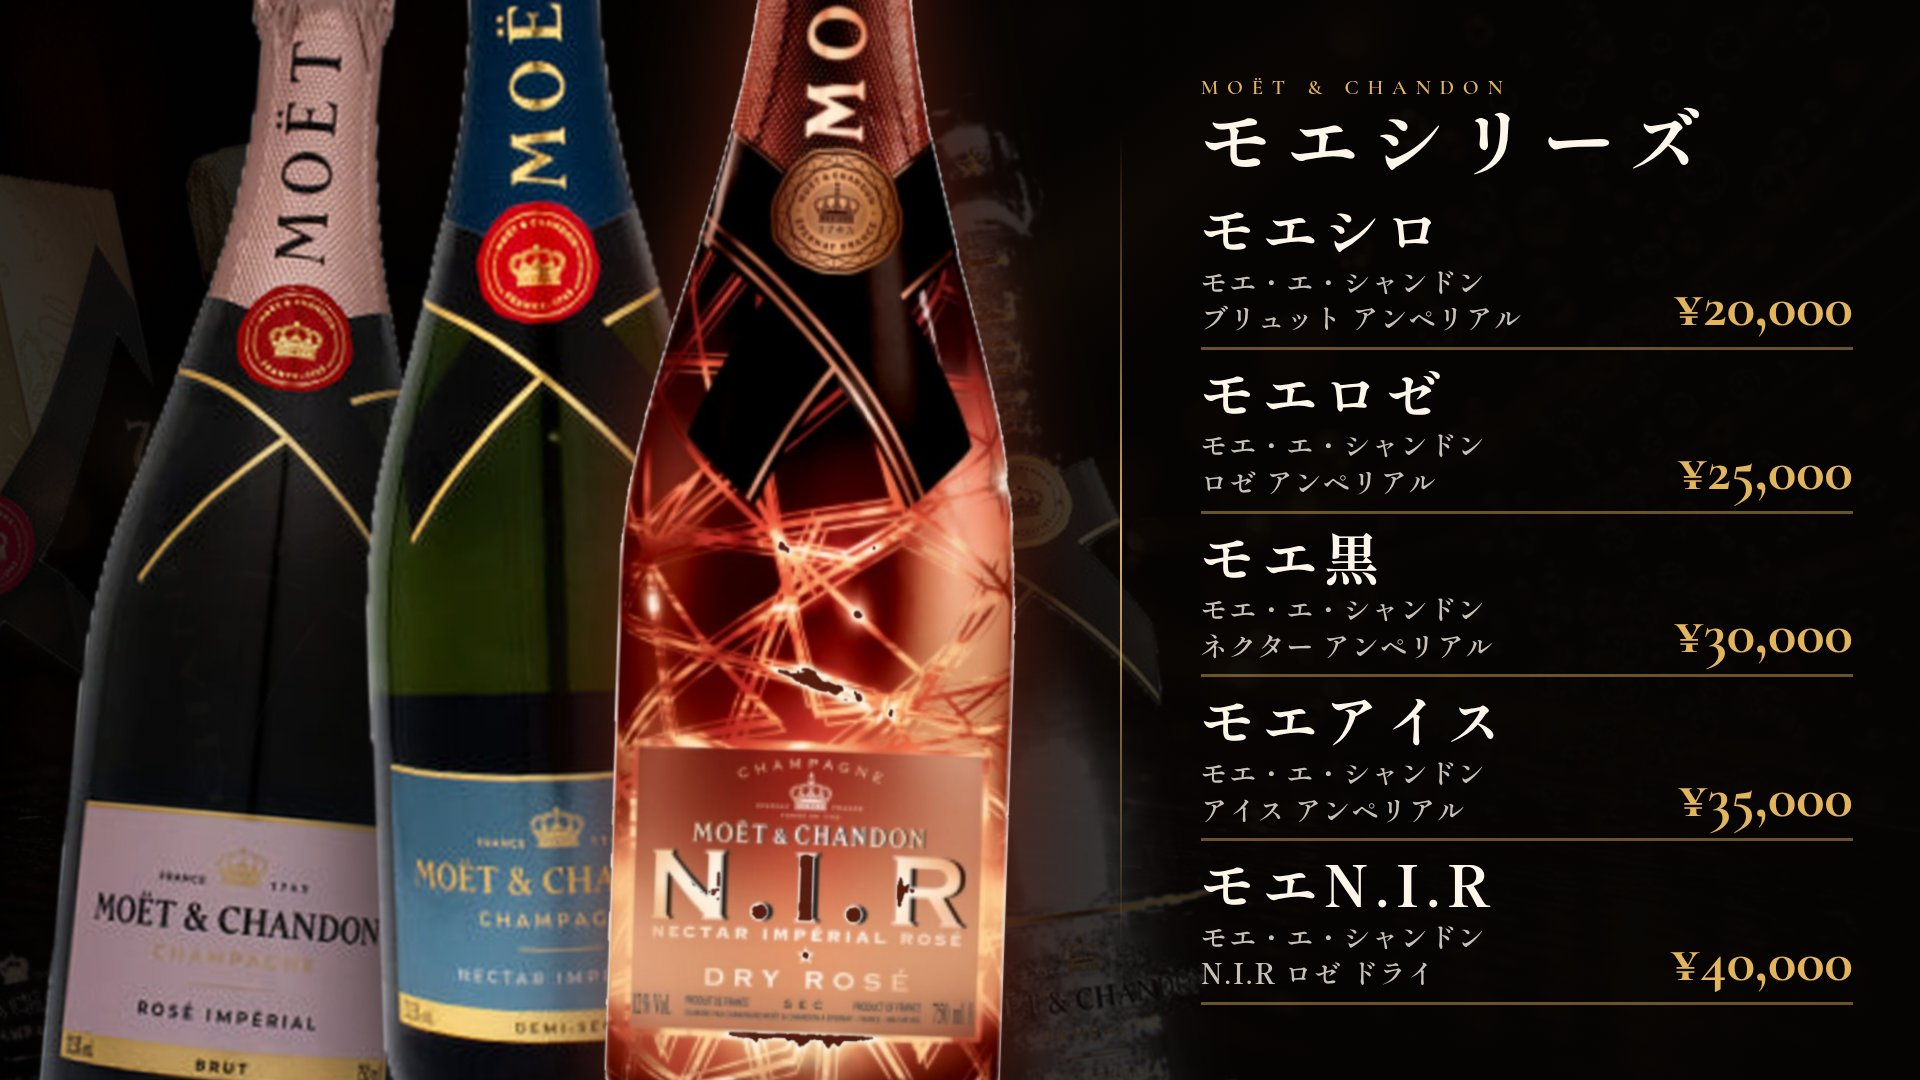
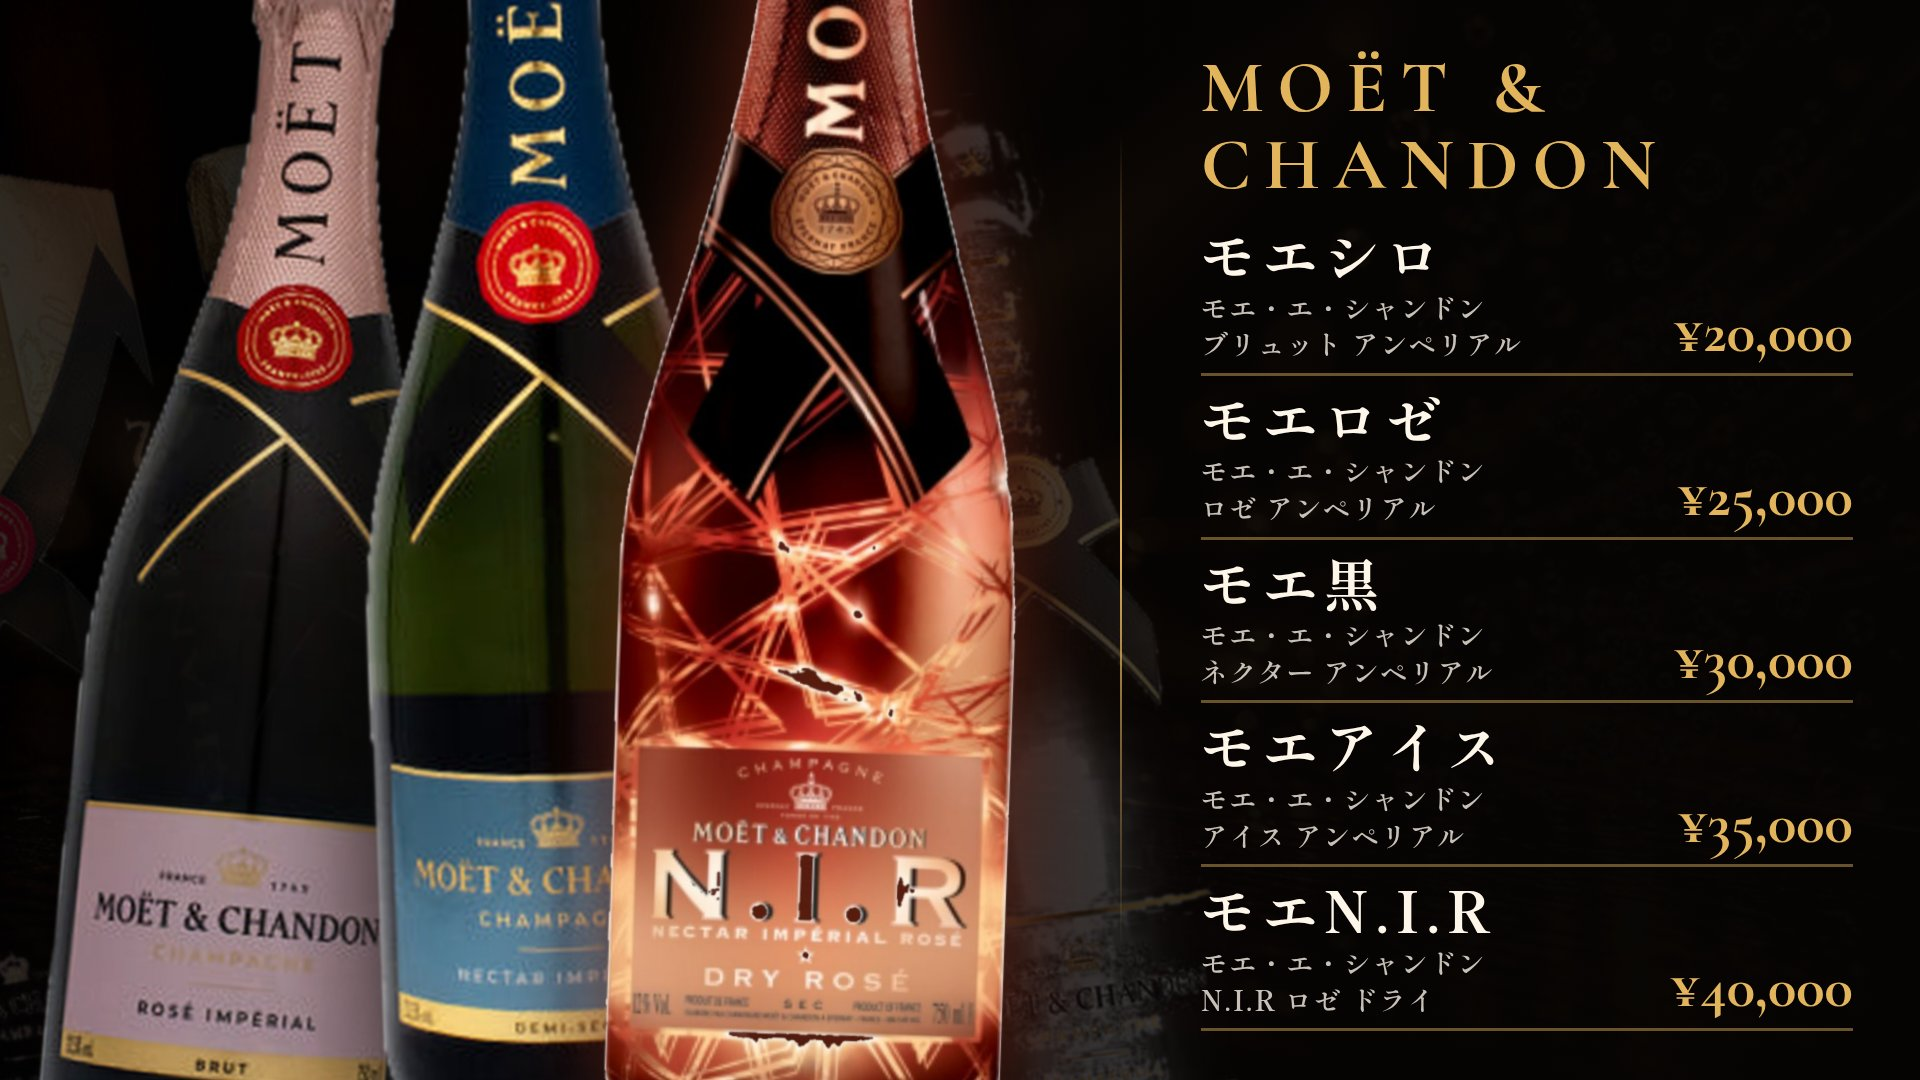
Replace モエシリーズ title with MOËT & CHANDON on Design 19
Drop the duplicate maison line and use the gold formal-name color for the hero title.

diff --git a/designs/19-trio-focus.html b/designs/19-trio-focus.html
@@ -19,8 +19,7 @@
 <img class="b b5" src="../assets/moet/cut/ice.png" alt=""/>
 </div>
 <div class="panel">
-<p class="maison">MOËT &amp; CHANDON</p>
-<h1 class="title">モエシリーズ</h1>
+<h1 class="title">MOËT &amp; CHANDON</h1>
 <div class="list"><div class="row"><div><p class="nick">モエシロ</p><p class="formal">モエ・エ・シャンドン<br>ブリュット アンペリアル</p></div><p class="price">¥20,000</p></div><div class="row"><div><p class="nick">モエロゼ</p><p class="formal">モエ・エ・シャンドン<br>ロゼ アンペリアル</p></div><p class="price">¥25,000</p></div><div class="row"><div><p class="nick">モエ黒</p><p class="formal">モエ・エ・シャンドン<br>ネクター アンペリアル</p></div><p class="price">¥30,000</p></div><div class="row"><div><p class="nick">モエアイス</p><p class="formal">モエ・エ・シャンドン<br>アイス アンペリアル</p></div><p class="price">¥35,000</p></div><div class="row"><div><p class="nick">モエN.I.R</p><p class="formal">モエ・エ・シャンドン<br>N.I.R ロゼ ドライ</p></div><p class="price">¥40,000</p></div></div>
 </div>
 </div>

diff --git a/designs/shared.css b/designs/shared.css
@@ -12,7 +12,7 @@ img{display:block;max-width:100%}
 .back{top:10px;left:10px}.badge{top:10px;right:10px;color:var(--gold2)}
 body.shot .back,body.shot .badge,html.shot .back,html.shot .badge{display:none!important}
 .maison{font-family:var(--serif);letter-spacing:.42em;color:var(--gold);font-size:clamp(1rem,1.5vw,1.3rem);font-weight:600}
-.title{font-size:clamp(2.6rem,5.5vw,4.6rem);letter-spacing:.16em;font-weight:700;line-height:1.05}
+.title{font-family:var(--serif);font-size:clamp(2.6rem,5.5vw,4.6rem);letter-spacing:.18em;font-weight:700;line-height:1.05;color:var(--gold)}
 .nick{font-size:clamp(2rem,4vw,3.5rem);font-weight:700;letter-spacing:.1em;line-height:1.05}
 .formal{margin-top:.3rem;font-size:clamp(1.15rem,1.9vw,1.7rem);color:var(--muted);letter-spacing:.05em;line-height:1.35}
 .price{font-family:var(--serif);font-size:clamp(2.1rem,4.2vw,3.7rem);font-weight:700;color:var(--gold);line-height:1;white-space:nowrap}
